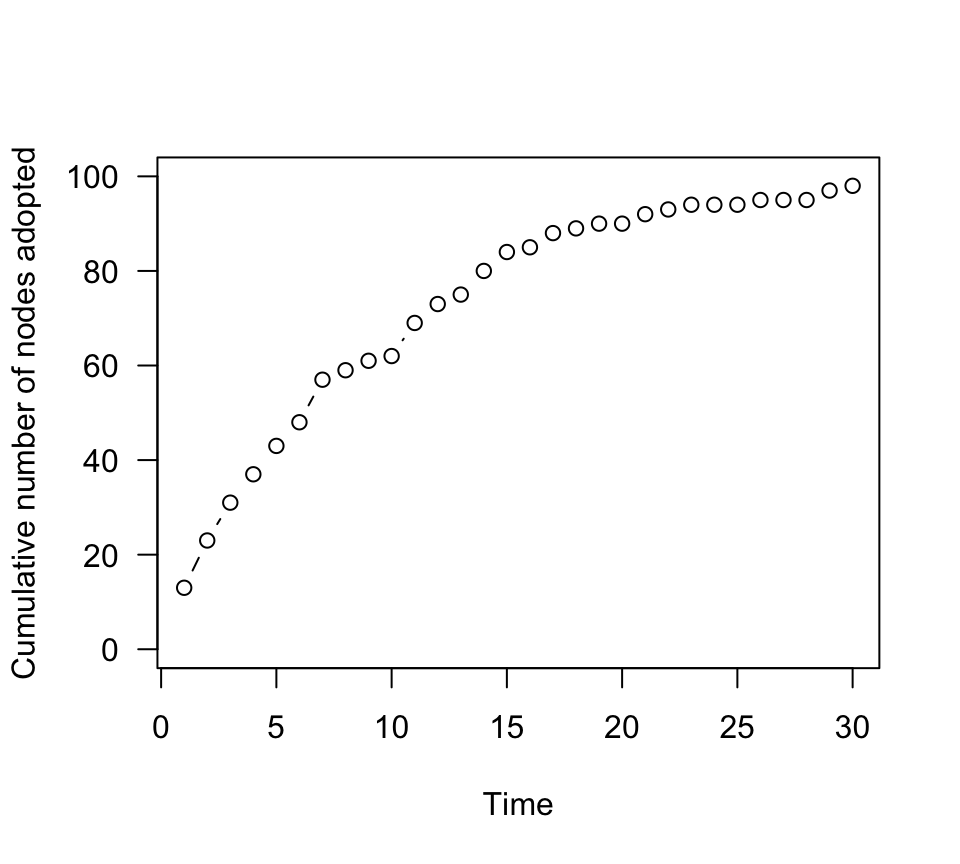
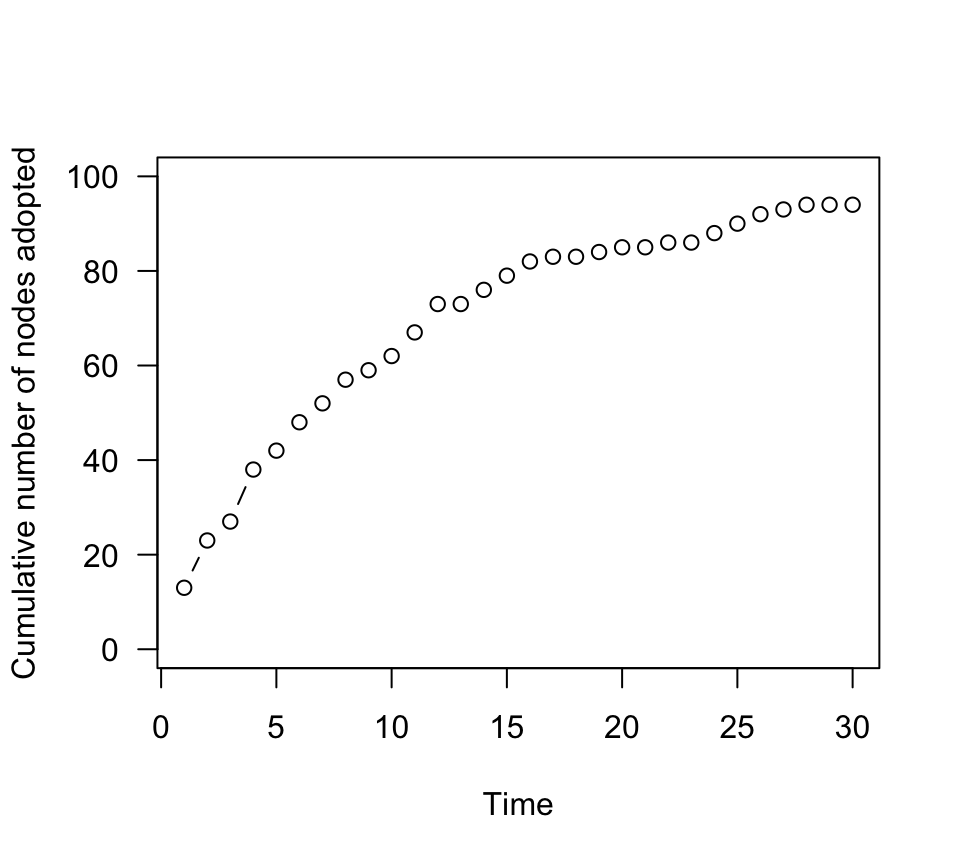
fix diffusion code

diff --git a/10_diffusion.html b/10_diffusion.html
@@ -91,9 +91,6 @@ img {
 .tabbed-pane {
   padding-top: 12px;
 }
-.html-widget {
-  margin-bottom: 20px;
-}
 button.code-folding-btn:focus {
   outline: none;
 }
@@ -177,7 +174,7 @@ $(document).ready(function () {
         <span class="icon-bar"></span>
         <span class="icon-bar"></span>
       </button>
-      <a class="navbar-brand" href="index.html">Network Analysis Tutorials</a>
+      <a class="navbar-brand" href="index.html">Network Analysis in R</a>
     </div>
     <div id="navbar" class="navbar-collapse collapse">
       <ul class="nav navbar-nav">
@@ -206,7 +203,7 @@ $(document).ready(function () {
 <li>Intro to Diffusion on Networks</li>
 </ol></h1>
 <h4 class="author"><em>Dai Shizuka</em></h4>
-<h4 class="date"><em>updated 07/23/18</em></h4>
+<h4 class="date"><em>updated 07/25/18</em></h4>
 
 </div>
 
@@ -252,20 +249,22 @@ plot(g, vertex.label=&quot;&quot;, vertex.size=8, vertex.color=&quot;darkgray&qu
 <p>Now, we will set the ‘asocial learning’ parameter, <span class="math inline">\(x\)</span> to be 0.1. This is the probability that any given individual will come up with the innovation–e.g., how to forage for a new prey item.</p>
 <pre class="r"><code>x=0.1</code></pre>
 <p>Let’s run one practice run of how this will work. In one time step, we flip a coin for each individual whether or not they will adopt the innovation. Based on the coin flip, we will convert the status of the individual to 1 if they learned the innovation in that time step:</p>
-<pre class="r"><code>adopt=sample(c(1,0),n, prob=c(x, 1-x), replace=T) #based on the probabilities, flip a coin and determine if the individual adopted or not.
+<pre class="r"><code>naive=which(V(g)$status==0) #which individuals have not adopted yet?
 
-V(g)$status[which(adopt==1)]=1 #change status of new adopters adopt.list[[j]]=which(adopters==1) #save the identities of adopters for that time step
+adopt=sample(c(1,0), length(naive), prob=c(x, 1-x), replace=T) #based on the probabilities, flip a coin for each naive individual and determine if the individual adopts the innovation in the current time step
+
+V(g)$status[naive][which(adopt==1)]=1 #change status of individuals whose status is 0 and is in the list of new adopters 
 
 plot(g, vertex.label=&quot;&quot;, vertex.color=c(&quot;darkgray&quot;, &quot;red&quot;)[V(g)$status+1], vertex.size=8, layout=l)</code></pre>
 <p><img src="10_diffusion_files/figure-html/unnamed-chunk-5-1.png" width="480" /></p>
 <p>Now, we will repeat this simulation for 30 time steps. Here, we need to consider that any given individual can only adopt an innovation once (it can’t go back). If you’re thinking about this in terms of disease, it’s like an ‘SI model’ in which individuals do not recover or go back to a susceptible state. In practical terms, this means that we will just ignore coin flips for individuals whose status = 1.</p>
 <pre class="r"><code>t=30
-adopt.list=list(0) #empty list t=20
 g.time=list()
 V(g)$status=0
 for(j in 1:t){
-  adopt=sample(c(1,0), n, prob=c(x, 1-x), replace=T) #coin flip
-  V(g)$status[which(adopt==1)]=1
+  naive=which(V(g)$status==0) 
+  adopt=sample(c(1,0), length(naive), prob=c(x, 1-x), replace=T)
+  V(g)$status[naive][which(adopt==1)]=1 
   g.time[[j]]=g
 }</code></pre>
 <p>What we end up with is 20 igraph objects in a list called <code>g.time</code> (output not shown)</p>
